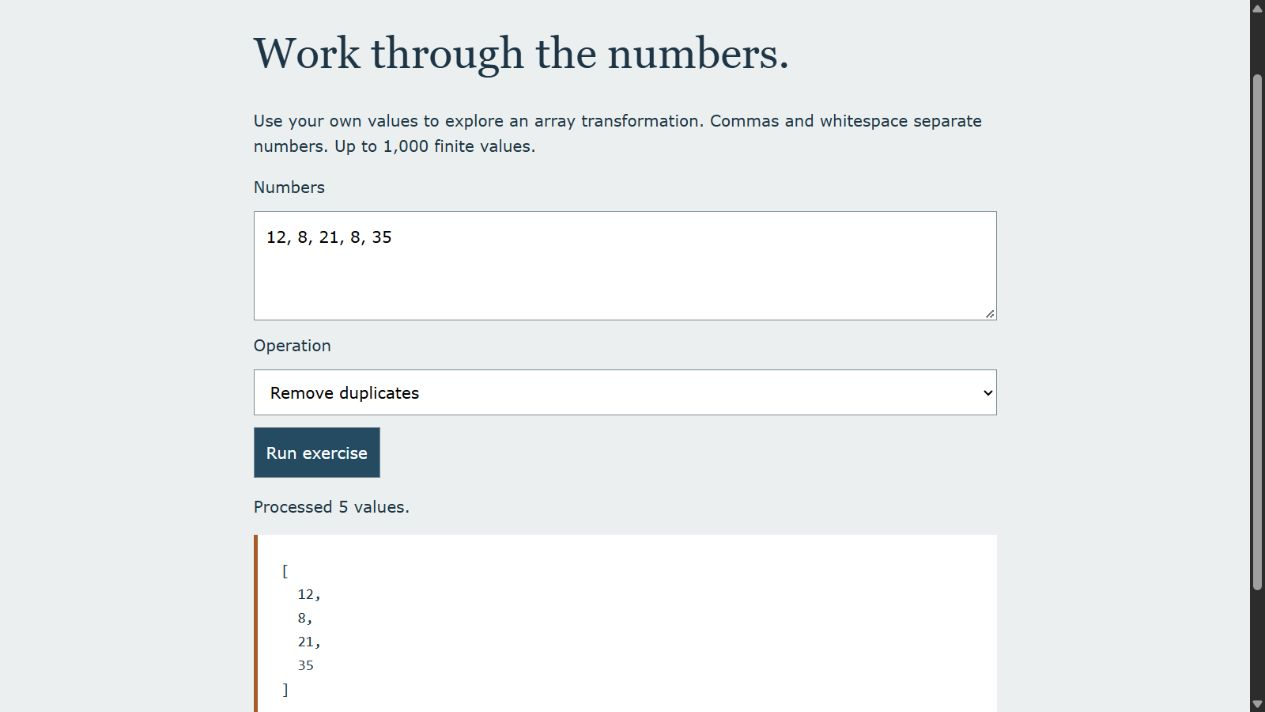
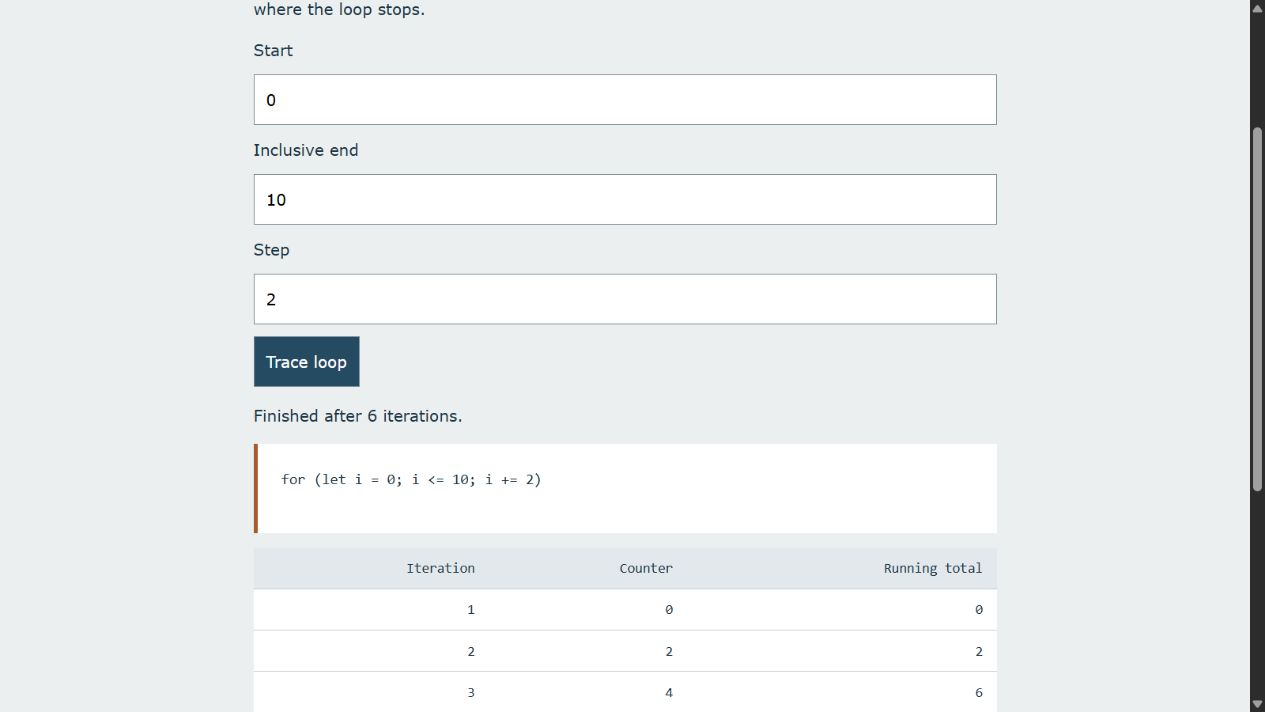
Replace duplicate companion with bounded loop tracing and exact totals

diff --git a/starter/practice.js b/starter/practice.js
@@ -1,44 +1,53 @@
+import { traceLoop } from "./loop.mjs";
 const form = document.querySelector("form");
+const status = document.querySelector("#status");
+const rows = document.querySelector("#rows");
+const download = document.querySelector("#download");
+let current = null;
 form.addEventListener("submit", (event) => {
   event.preventDefault();
-  const raw = document.querySelector("#values").value.trim();
-  const tokens = raw.split(/[\s,]+/).filter(Boolean);
-  const numbers = tokens.map(Number);
-  const status = document.querySelector("#status");
-  const result = document.querySelector("#result");
-  if (
-    !tokens.length ||
-    tokens.length > 1000 ||
-    numbers.some((value) => !Number.isFinite(value))
-  ) {
-    status.textContent =
-      "Enter 1 to 1,000 finite numbers, separated by commas or spaces.";
-    result.textContent = "";
-    return;
-  }
-  let output;
-  switch (document.querySelector("#operation").value) {
-    case "unique":
-      output = [...new Set(numbers)];
-      break;
-    case "sort":
-      output = [...numbers].sort((a, b) => a - b);
-      break;
-    case "double":
-      output = numbers.map((value) => value * 2);
-      break;
-    default: {
-      const sum = numbers.reduce((total, value) => total + value, 0);
-      output = { count: numbers.length, sum, mean: sum / numbers.length };
+  rows.replaceChildren();
+  download.hidden = true;
+  current = null;
+  document.querySelector("#summary").textContent = "";
+  document.querySelector("#condition").textContent = "";
+  try {
+    const values = ["start", "end", "step"].map((id) => {
+      const raw = document.getElementById(id).value.trim();
+      if (!raw) throw new Error("Fill in start, end and step.");
+      return Number(raw);
+    });
+    current = traceLoop(...values);
+    document.querySelector("#condition").textContent =
+      `for (let i = ${values[0]}; i ${values[2] > 0 ? "<=" : ">="} ${values[1]}; i += ${values[2]})`;
+    for (const row of current.rows.slice(0, 100)) {
+      const tr = document.createElement("tr");
+      for (const value of [row.iteration, row.value, row.total]) {
+        const td = document.createElement("td");
+        td.textContent = String(value);
+        tr.append(td);
+      }
+      rows.append(tr);
     }
-  }
-  const numericValues = Array.isArray(output) ? output : Object.values(output);
-  if (numericValues.some((value) => !Number.isFinite(value))) {
+    status.textContent = current.completed
+      ? `Finished after ${current.rows.length} iterations.`
+      : "Stopped at the 1,000-iteration trace limit. The loop would continue.";
+    document.querySelector("#summary").textContent =
+      `Next counter: ${current.nextValue}. Showing ${Math.min(100, current.rows.length)} of ${current.rows.length} traced iterations.`;
+    download.hidden = false;
+  } catch (error) {
     status.textContent =
-      "These values overflow JavaScript arithmetic. Try smaller numbers.";
-    result.textContent = "";
-    return;
+      error instanceof Error ? error.message : "Could not trace this loop.";
   }
-  status.textContent = `Processed ${numbers.length} values.`;
-  result.textContent = JSON.stringify(output, null, 2);
+});
+download.addEventListener("click", () => {
+  if (!current) return;
+  const url = URL.createObjectURL(
+    new Blob([JSON.stringify(current, null, 2)], { type: "application/json" }),
+  );
+  const link = document.createElement("a");
+  link.href = url;
+  link.download = "loop-trace.json";
+  link.click();
+  setTimeout(() => URL.revokeObjectURL(url), 1000);
 });

diff --git a/starter/index.html b/starter/index.html
@@ -1,40 +1,1 @@
-<!doctype html>
-<html lang="en">
-  <head>
-    <meta charset="utf-8" />
-    <meta name="viewport" content="width=device-width,initial-scale=1" />
-    <title>JavaScript practice | Part 2</title>
-    <link rel="stylesheet" href="practice.css" />
-    <script src="practice.js" defer></script>
-  </head>
-  <body>
-    <main>
-      <header>JavaScript practice / 2</header>
-      <h1>Work through the numbers.</h1>
-      <p>
-        Use your own values to explore an array transformation. Commas and
-        whitespace separate numbers. Up to 1,000 finite values.
-      </p>
-      <form>
-        <label for="values">Numbers</label
-        ><textarea id="values" required>12, 8, 21, 8, 35</textarea
-        ><label for="operation">Operation</label
-        ><select id="operation">
-          <option value="summary">Count, sum and mean</option>
-          <option value="unique">Remove duplicates</option>
-          <option value="sort">Sort ascending</option>
-          <option value="double">Double each value</option></select
-        ><button>Run exercise</button>
-      </form>
-      <p id="status" role="status"></p>
-      <pre id="result" aria-label="Exercise result"></pre>
-      <footer>
-        This interactive companion is new. The original exercise notes remain in
-        the repository.<br /><a
-          href="https://github.com/ismaeelakin/fundamental_js_part_2"
-          >Read the source</a
-        >
-      </footer>
-    </main>
-  </body>
-</html>
+<!doctype html><html lang="en"><head><meta charset="utf-8"><meta name="viewport" content="width=device-width,initial-scale=1"><meta name="description" content="Trace an integer loop with your own start, end and step. Inspect exact running totals without executing arbitrary code."><title>Loop Trace | JavaScript practice</title><link rel="stylesheet" href="practice.css"><script type="module" src="practice.js"></script></head><body><main><header>JavaScript practice / functions and loops</header><h1>See each iteration.</h1><p>Choose a start, inclusive end and step. Trace the counter and running total, then inspect where the loop stops.</p><form novalidate><label for="start">Start</label><input id="start" type="number" step="1" value="0" required><label for="end">Inclusive end</label><input id="end" type="number" step="1" value="10" required><label for="step">Step</label><input id="step" type="number" step="1" value="2" required><button>Trace loop</button></form><p id="status" role="status" aria-live="polite"></p><pre id="condition" aria-label="Loop condition"></pre><div class="table-wrap"><table><thead><tr><th>Iteration</th><th>Counter</th><th>Running total</th></tr></thead><tbody id="rows"></tbody></table></div><p id="summary"></p><button id="download" hidden>Download full trace</button><footer>At most 1,000 iterations; the table shows the first 100. Totals use BigInt.<br>This tool traces a fixed integer loop. It does not execute pasted JavaScript.<br><a href="https://github.com/ismaeelakin/fundamental_js_part_2">Source, tests and learning notes</a></footer></main></body></html>

diff --git a/starter/practice.css b/starter/practice.css
@@ -68,3 +68,36 @@ footer {
   outline: 3px solid #a85a2a;
   outline-offset: 3px;
 }
+
+input {
+  font: inherit;
+  padding: 12px;
+  border: 1px solid #7c8b94;
+  width: 100%;
+}
+.table-wrap {
+  overflow: auto;
+}
+table {
+  width: 100%;
+  border-collapse: collapse;
+  background: white;
+}
+th,
+td {
+  padding: 10px 14px;
+  text-align: right;
+  border-bottom: 1px solid #c7cfd3;
+  font:
+    14px/1.5 Consolas,
+    monospace;
+}
+th {
+  background: #e2e8eb;
+}
+footer {
+  margin-top: 30px;
+}
+[hidden] {
+  display: none !important;
+}

diff --git a/README.md b/README.md
@@ -1,25 +1,55 @@
-# JavaScript fundamentals: part 2
+# Loop Trace
 
-JavaScript learning notes with a small interactive number exercise. Enter your own values to compare a summary, unique values, numeric sorting and a map operation.
+A JavaScript learning tool that shows each iteration of an integer loop. Enter your own start, inclusive end and step, inspect the counter and exact running total, and download the trace.
 
-![Interactive number exercise](docs/exercise.png)
+[Open Loop Trace](https://ismaeelakin.github.io/fundamental_js_part_2/)
 
-[Open the live demo](https://ismaeelakin.github.io/fundamental_js_part_2/)
+![Loop Trace with an ascending sequence](docs/exercise.png)
 
-## Try the exercise
+## Features
 
-Run `python -m http.server 8093 --bind 127.0.0.1` from this repository. Open <http://127.0.0.1:8093/starter/>.
+- Ascending and descending integer loops with inclusive end conditions.
+- Clear errors for a zero step, the wrong direction or unsafe integer inputs.
+- A 1,000-iteration guard, with explicit reporting when a trace is incomplete.
+- BigInt running totals and next-counter values, including sums beyond Number's safe range.
+- A table of the first 100 iterations and a JSON download of the full bounded trace.
 
-The page loads only `practice.js`. The original notes in `starter/script.js` remain available for reading and are not executed on page load. The companion accepts up to 1,000 finite numbers and reports invalid input and arithmetic overflow.
+## Tech stack
 
-## Structure
+HTML, CSS and browser JavaScript modules. Node.js runs the tests. No packages, accounts or external services are required.
 
-Input text is split into tokens, converted to numbers and validated before an array operation runs. Results are rendered as text. There are no packages, network calls, accounts or saved data.
+## Setup
 
-## Review
+```sh
+python -m http.server 8093 --bind 127.0.0.1
+```
 
-Try `3, 1, 3, -2`, switch among operations, then try empty input, `hello` and very large numbers. Sorting works on a copy; duplicate removal preserves first occurrence order. JavaScript uses floating-point numbers, so this is not a precision arithmetic tool.
+Open <http://127.0.0.1:8093/starter/>. A static server is needed for ES modules. The live deployment contains the same browser source.
 
-## Status
+## Architecture
 
-This is learning work, not a production application or evidence of commercial experience. The main portfolio projects are [Rowcraft](https://github.com/ismaeelakin/rowcraft), [Dispatch Ledger](https://github.com/ismaeelakin/dispatch-ledger) and [RelayBox](https://github.com/ismaeelakin/relaybox).
+```mermaid
+flowchart LR
+  Form[Start, end and step] --> Validate[Validate safe integers and direction]
+  Validate --> Model[loop.mjs: bounded BigInt trace]
+  Model --> Table[First 100 iterations]
+  Model --> Download[Full trace as JSON]
+```
+
+`loop.mjs` contains the pure trace function. `practice.js` handles events, text rendering and file download. The app traces a fixed loop contract; it never evaluates pasted JavaScript. Truncation clears neither the recorded iterations nor the distinction between a completed and incomplete trace.
+
+## Verify
+
+```sh
+node --test test/loop.test.mjs
+```
+
+Seven tests cover inclusive bounds, descending steps, equal endpoints, invalid directions, iteration limits, unsafe inputs and exact large totals.
+
+Try `0 → 10` with step `2`, then `5 → 0` with step `-2`. A zero step must report an error. `0 → 5000` with step `1` must stop at the guard and report that the loop would continue.
+
+## Learning history and limits
+
+This repository began as JavaScript functions and loop exercises. The notes remain in `starter/script.js` for reading and are not loaded by the app. Two original loop mistakes were corrected: a semicolon that detached a loop body and a shadowed counter variable.
+
+Inputs must be safe integers, although totals use BigInt internally. This is a teaching tool for one loop shape, not a general JavaScript debugger. The [part 1 companion](https://github.com/ismaeelakin/js-fundamentals) focuses on array operations instead.
